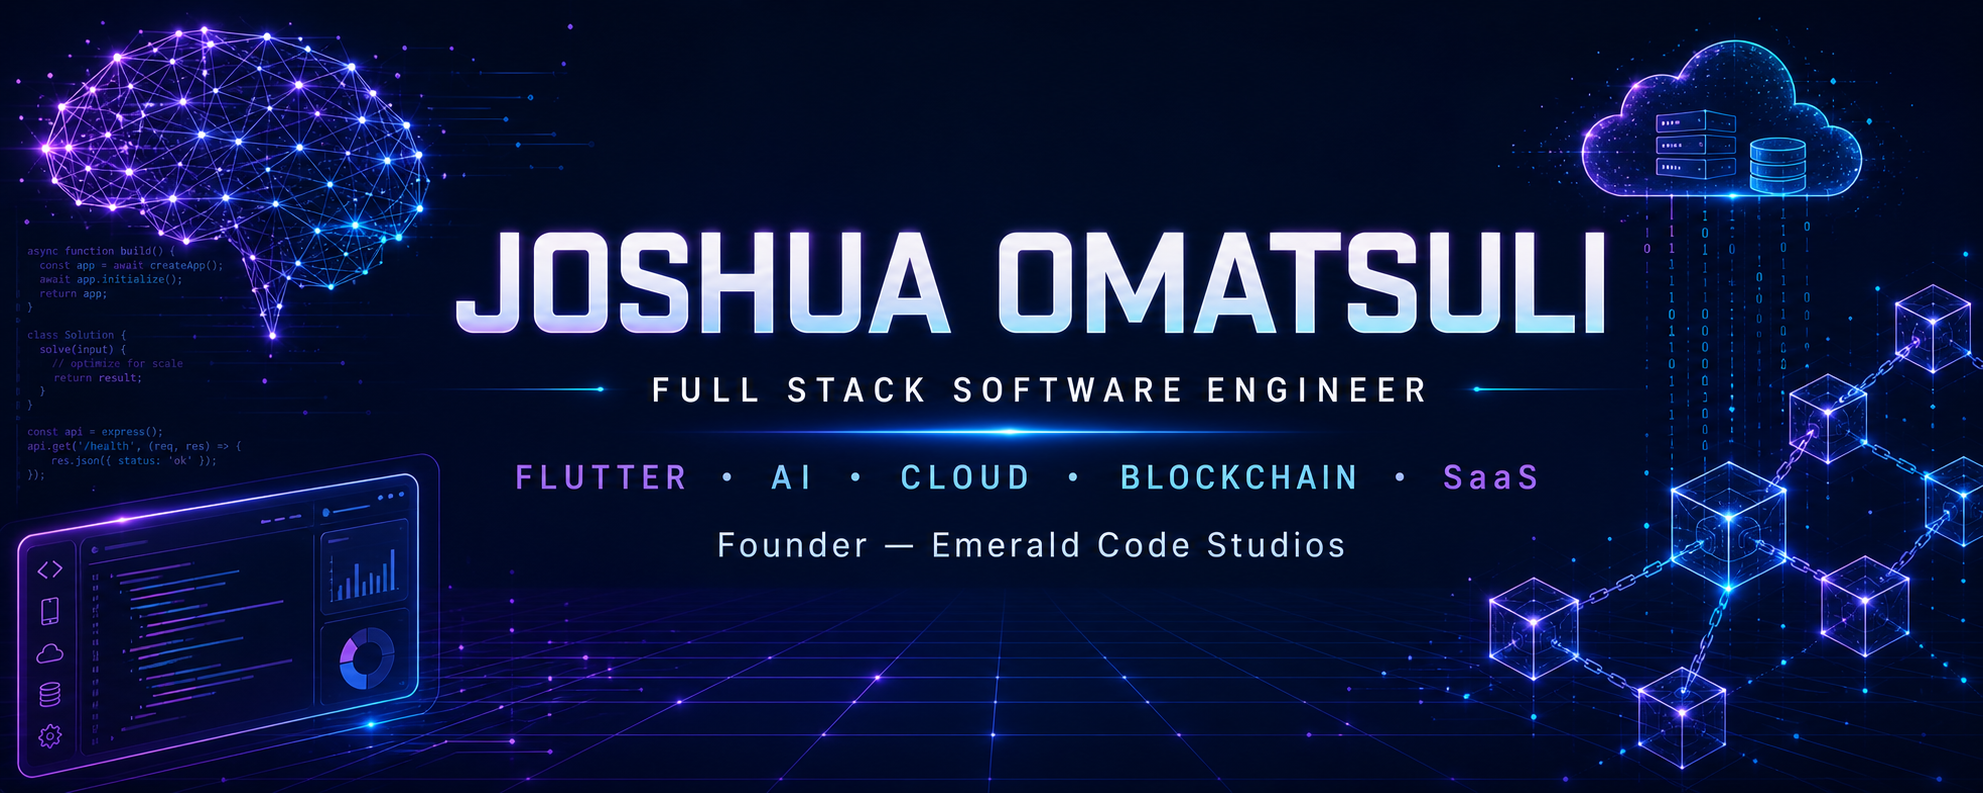
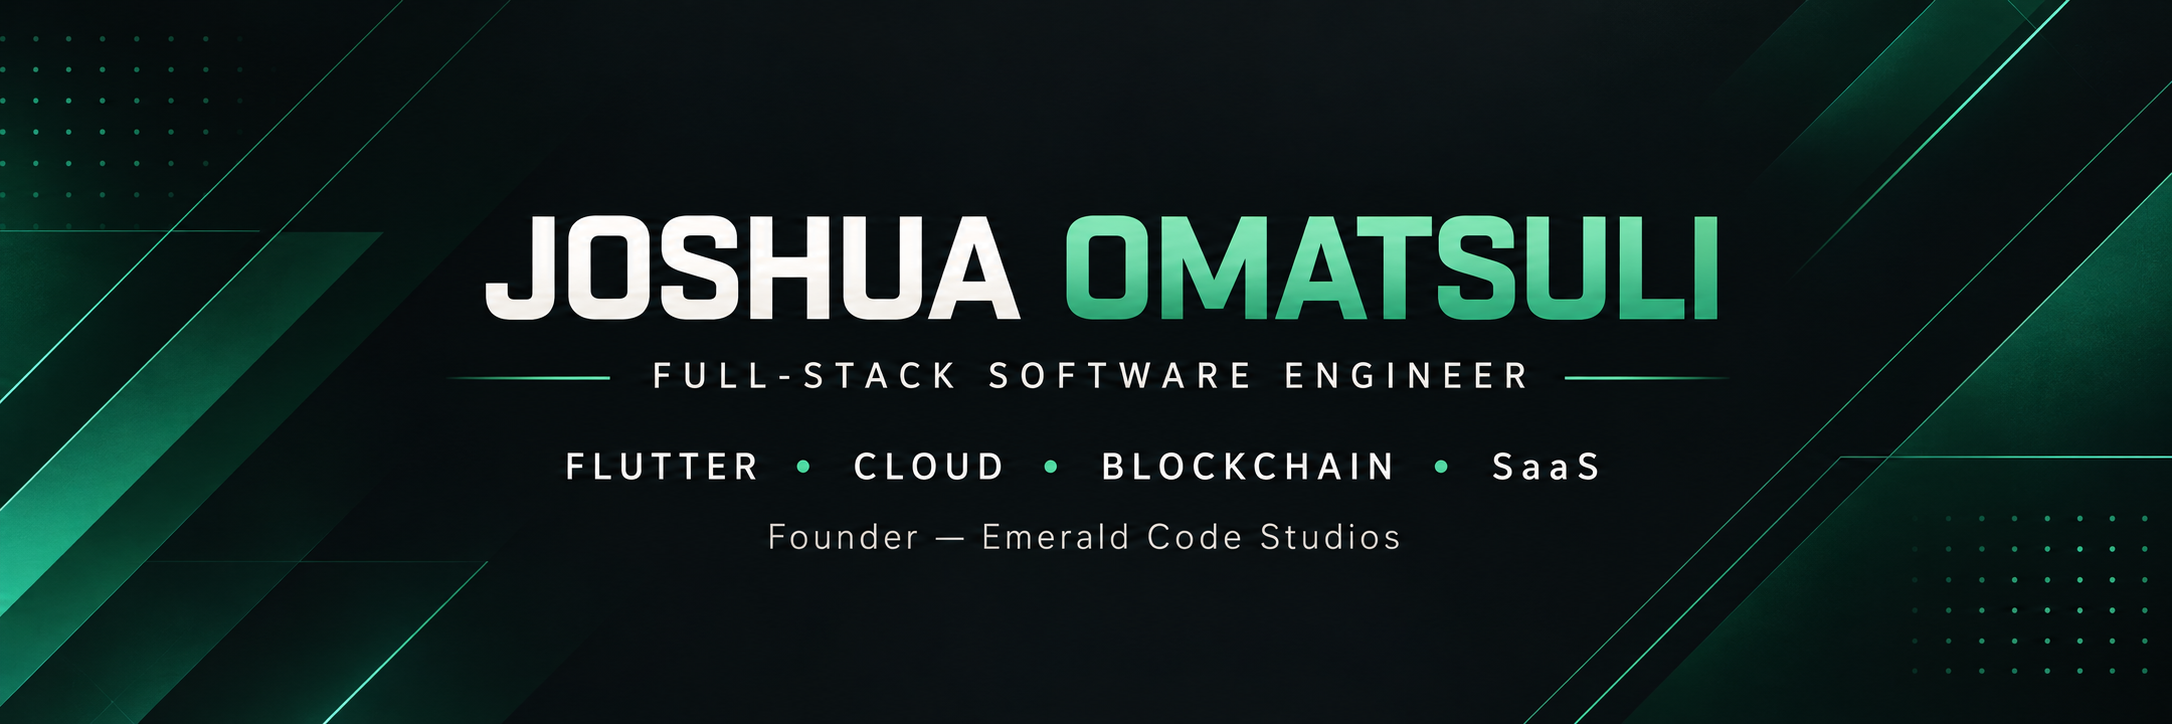
Refresh profile and add 2026 hackathon win

diff --git a/README.md b/README.md
@@ -2,9 +2,9 @@
 
 ![Joshua Omatsuli — Full Stack Software Engineer](./banner.png)
 
-<img src="https://readme-typing-svg.demolab.com?font=JetBrains+Mono&weight=600&size=23&duration=3000&pause=900&color=7C3AED&center=true&vCenter=true&width=800&lines=Full+Stack+Software+Engineer;Flutter+Developer+%26+AI+Engineer;Cloud+%26+Blockchain+Developer;SaaS+Founder+%40+Emerald+Code+Studios;Building+the+future+with+code" alt="Animated roles" />
+<img src="https://readme-typing-svg.demolab.com?font=JetBrains+Mono&weight=600&size=23&duration=3000&pause=900&color=34D399&center=true&vCenter=true&width=800&lines=Full+Stack+Software+Engineer;Flutter+Developer+%26+AI+Engineer;Cloud+%26+Blockchain+Developer;SaaS+Founder+%40+Emerald+Code+Studios;Building+the+future+with+code" alt="Animated roles" />
 
-[![Profile Views](https://komarev.com/ghpvc/?username=Omatsulijoshua&label=PROFILE+VIEWS&color=7c3aed&style=for-the-badge)](https://github.com/Omatsulijoshua)
+[![Profile Views](https://komarev.com/ghpvc/?username=Omatsulijoshua&label=PROFILE+VIEWS&color=059669&style=for-the-badge)](https://github.com/Omatsulijoshua)
 [![Followers](https://img.shields.io/github/followers/Omatsulijoshua?label=FOLLOWERS&style=for-the-badge&color=0891b2&labelColor=111827)](https://github.com/Omatsulijoshua?tab=followers)
 [![Repositories](https://img.shields.io/badge/REPOSITORIES-EXPLORE-7c3aed?style=for-the-badge&labelColor=111827)](https://github.com/Omatsulijoshua?tab=repositories)
 
@@ -15,6 +15,8 @@
 I'm a Full Stack Software Engineer from Nigeria and the founder of **Emerald Code Studios**. I build production-ready products across mobile, web, artificial intelligence, cloud computing, and blockchain.
 
 My work spans enterprise SaaS, AI systems, logistics, legal technology, education, finance, healthcare, 3D CAD, and creative digital experiences. I care about clean architecture, thoughtful design, and software that solves real problems.
+
+> 🏆 **2026 Hackathon Winner** — My team, **Team Luma**, won **1st Place** at the **Wema Bank Hackaholics Benin City Edition**.
 
 ```typescript
 const joshua = {
@@ -189,6 +191,24 @@ Always learning and building
 </div>
 
 ## 🏆 Engineering Highlights
+
+### 2026 Wema Bank Hackaholics — Benin City Edition
+
+My team, **Team Luma**, earned **1st Place** at the Wema Bank Hackaholics Benin City Edition. It was a proud team achievement built on collaboration, focused execution, and turning an ambitious idea into a winning solution.
+
+<div align="center">
+
+<img src="./assets/gallery/wema-hackathon-team-1.jpg" width="48%" alt="Team Luma celebrating first place at the 2026 Wema Bank Hackaholics Benin City Edition" />
+<img src="./assets/gallery/wema-hackathon-team-2.jpg" width="48%" alt="Team Luma holding the first-place award board" />
+
+<img src="./assets/gallery/wema-hackathon-stage.jpg" width="48%" alt="Wema Bank Hackaholics Benin finale winners on stage" />
+<img src="./assets/gallery/wema-hackathon-portrait.jpg" width="48%" alt="Joshua with Team Luma's first-place award" />
+
+<sub>Team Luma · 1st Place · Benin City · 2026</sub>
+
+</div>
+
+### More Highlights
 
 - **AI Developer** — building intelligent agents, voice experiences, RAG systems, and automation
 - **Flutter Specialist** — creating polished cross-platform mobile products
